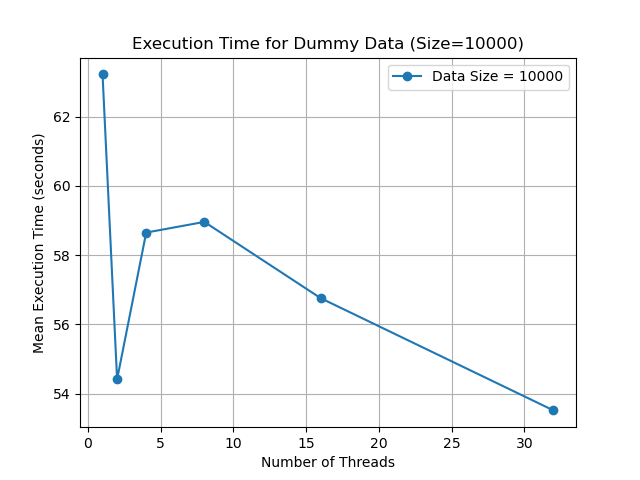
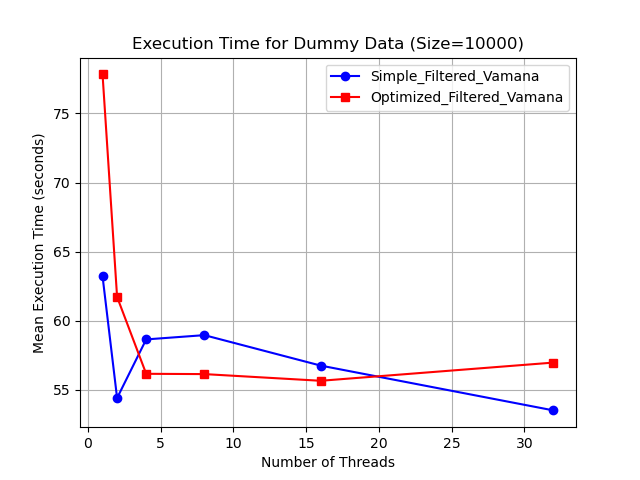
Did the random_graph optimization in Filtered and made a script which can plot the differences.

diff --git a/V2.0/modules/FilteredVamana.cpp b/V2.0/modules/FilteredVamana.cpp
@@ -7,6 +7,7 @@
 #include "medoid.h"
 #include "FilteredRobust.h"
 #include <random>
+#include "Vamana.h"
 using namespace std;
 
 map <int,set<int>> FilteredVamanaIndex(vector<vector<double>>&vectormatrix,vector<vector<float>>&DataNodes,
@@ -16,6 +17,24 @@ map <float,int>&medoids,
 int L_small){
     
     map<int,set<int>>graph; //empty graph
+    map<float,list<int>> labeled_nodes;
+    int thread_num = 16;
+    int R_small=5;
+    for(int i=0; i<DataNodes.size();i++){
+        labeled_nodes[DataNodes[i][0]].push_back(i); 
+    }
+    int i=0;
+    map<int,set<int>>tempGf;
+    for(auto filter : category_attributes){
+
+        tempGf = Graph_creation(labeled_nodes[filter],R_small,thread_num);
+        for(auto nodes :tempGf){
+            graph[i].insert(nodes.second.begin(),nodes.second.end());
+            break;
+        }
+        i++;
+    }
+
     random_device rd; //obtain a random number from hardware
     mt19937 generator(rd()); //seed the generator
     vector<int> randomized_nodes(DataNodes.size());

diff --git a/V2.0/scripts/diagrams.py b/V2.0/scripts/diagrams.py
@@ -12,13 +12,17 @@ matplotlib.use('Agg')
 df = pd.read_csv("/root/Project-1/V2.0/output/execution_times.csv")
 
 # Filter data for a specific grid size
-subset = df[df["L_small"] == 150] 
+subset = df[df["L_small"] == 160] 
+df = pd.read_csv("/root/Project-1/V2.0/Optimized_times.csv")
+subset2 = df[df["L_small"] == 160]
 
 # Group by Num_Threads and calculate the mean Execution_Time
 summary = subset.groupby("thread_num")["Execution_time"].mean()
+summary2 = subset2.groupby("thread_num")["Execution_time"].mean()
 
 # Plot the summarized execution time vs. number of threads
-plt.plot(summary.index, summary.values, marker='o', label="Data Size = 10000")
+plt.plot(summary.index, summary.values, marker='o', label="Simple_Filtered_Vamana", color = 'blue')
+plt.plot(summary2.index, summary2.values, marker='s', label="Optimized_Filtered_Vamana", color='red')
 plt.xlabel("Number of Threads")
 plt.ylabel("Mean Execution Time (seconds)")
 plt.title("Execution Time for Dummy Data (Size=10000)")

diff --git a/V2.0/header_files/Vamana.h b/V2.0/header_files/Vamana.h
@@ -10,7 +10,7 @@
 using namespace std;
 
 
-map<int, set<int>> graph_creation(list<int>& labeled_nodes, int R);
+map<int, set<int>> Graph_creation(list<int>& labeled_nodes, int R,int thread_num);
 
 map <int, set<int>> vamana_index_algorithm(map<float,list<int>>&labeled_nodes,float filters,double a,int& R_small,int &L_small,
 vector<vector<double>>& vecmatrix,
